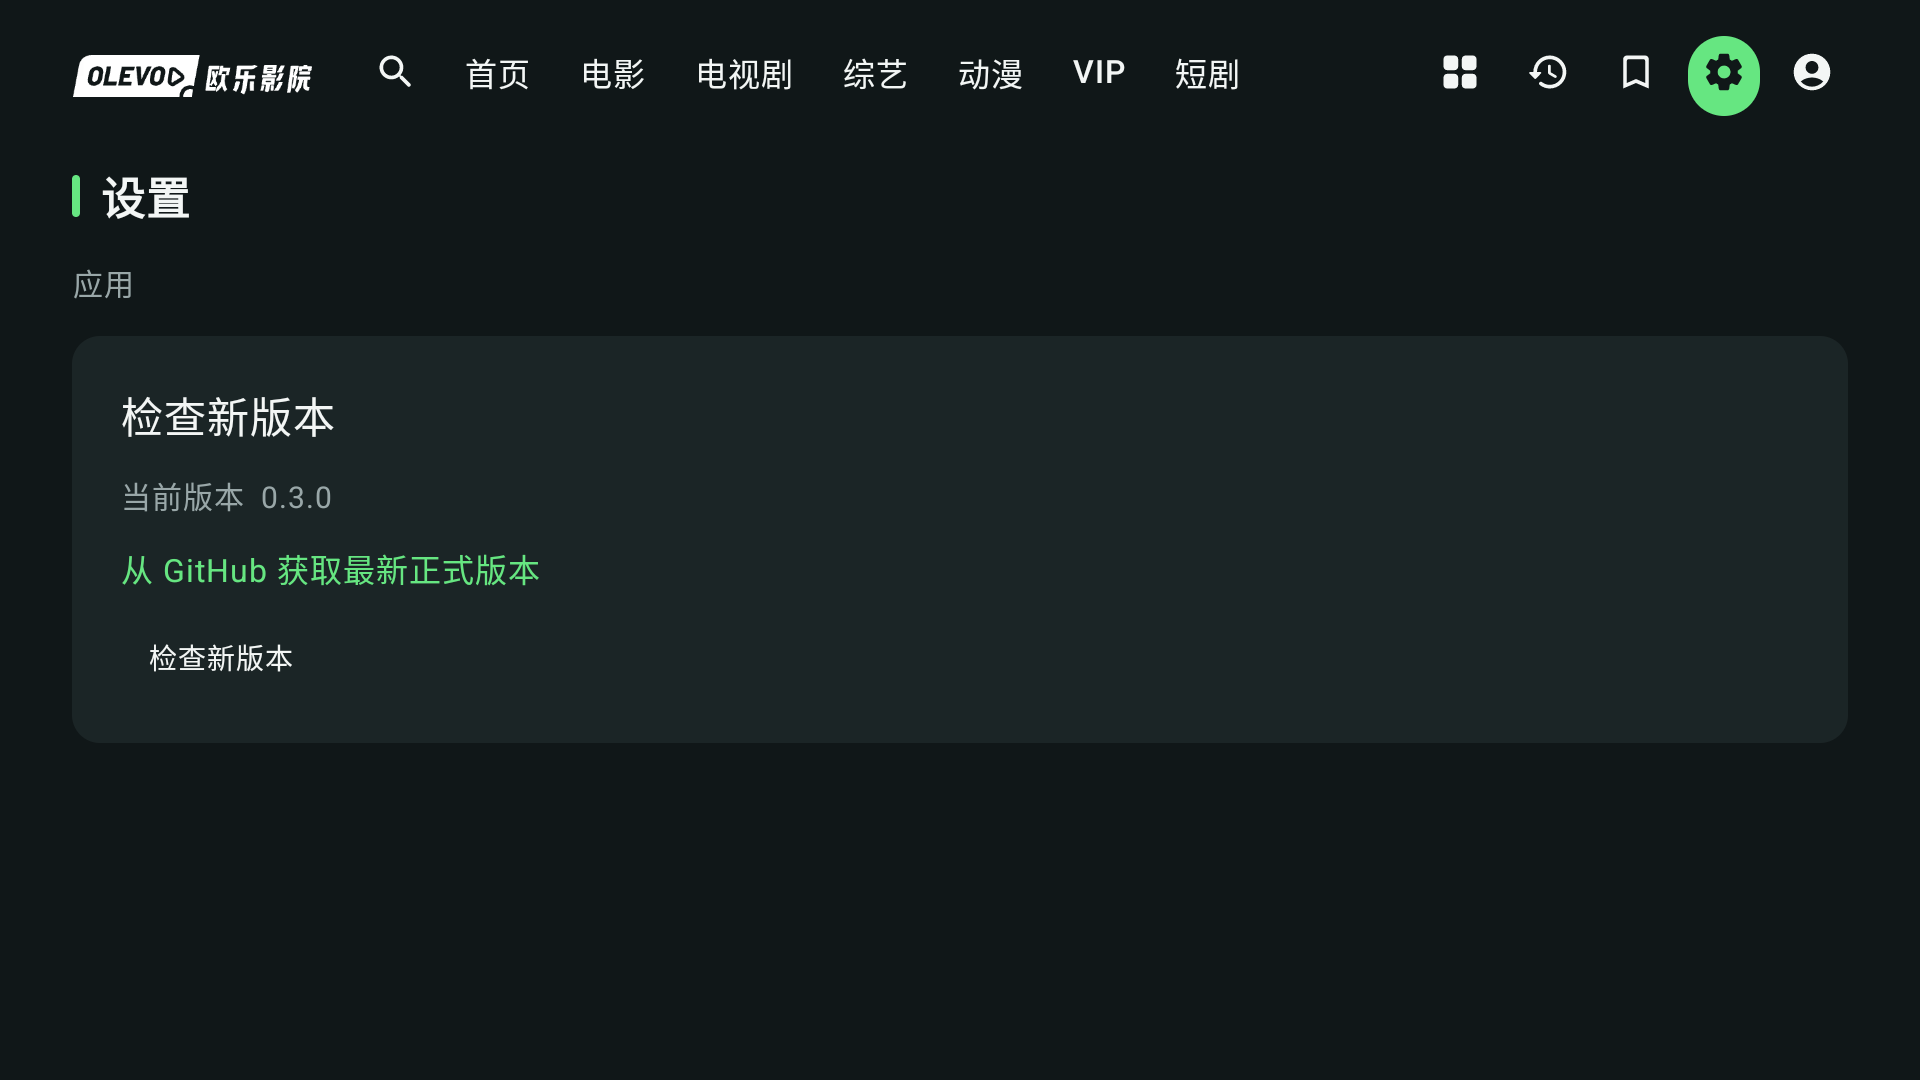
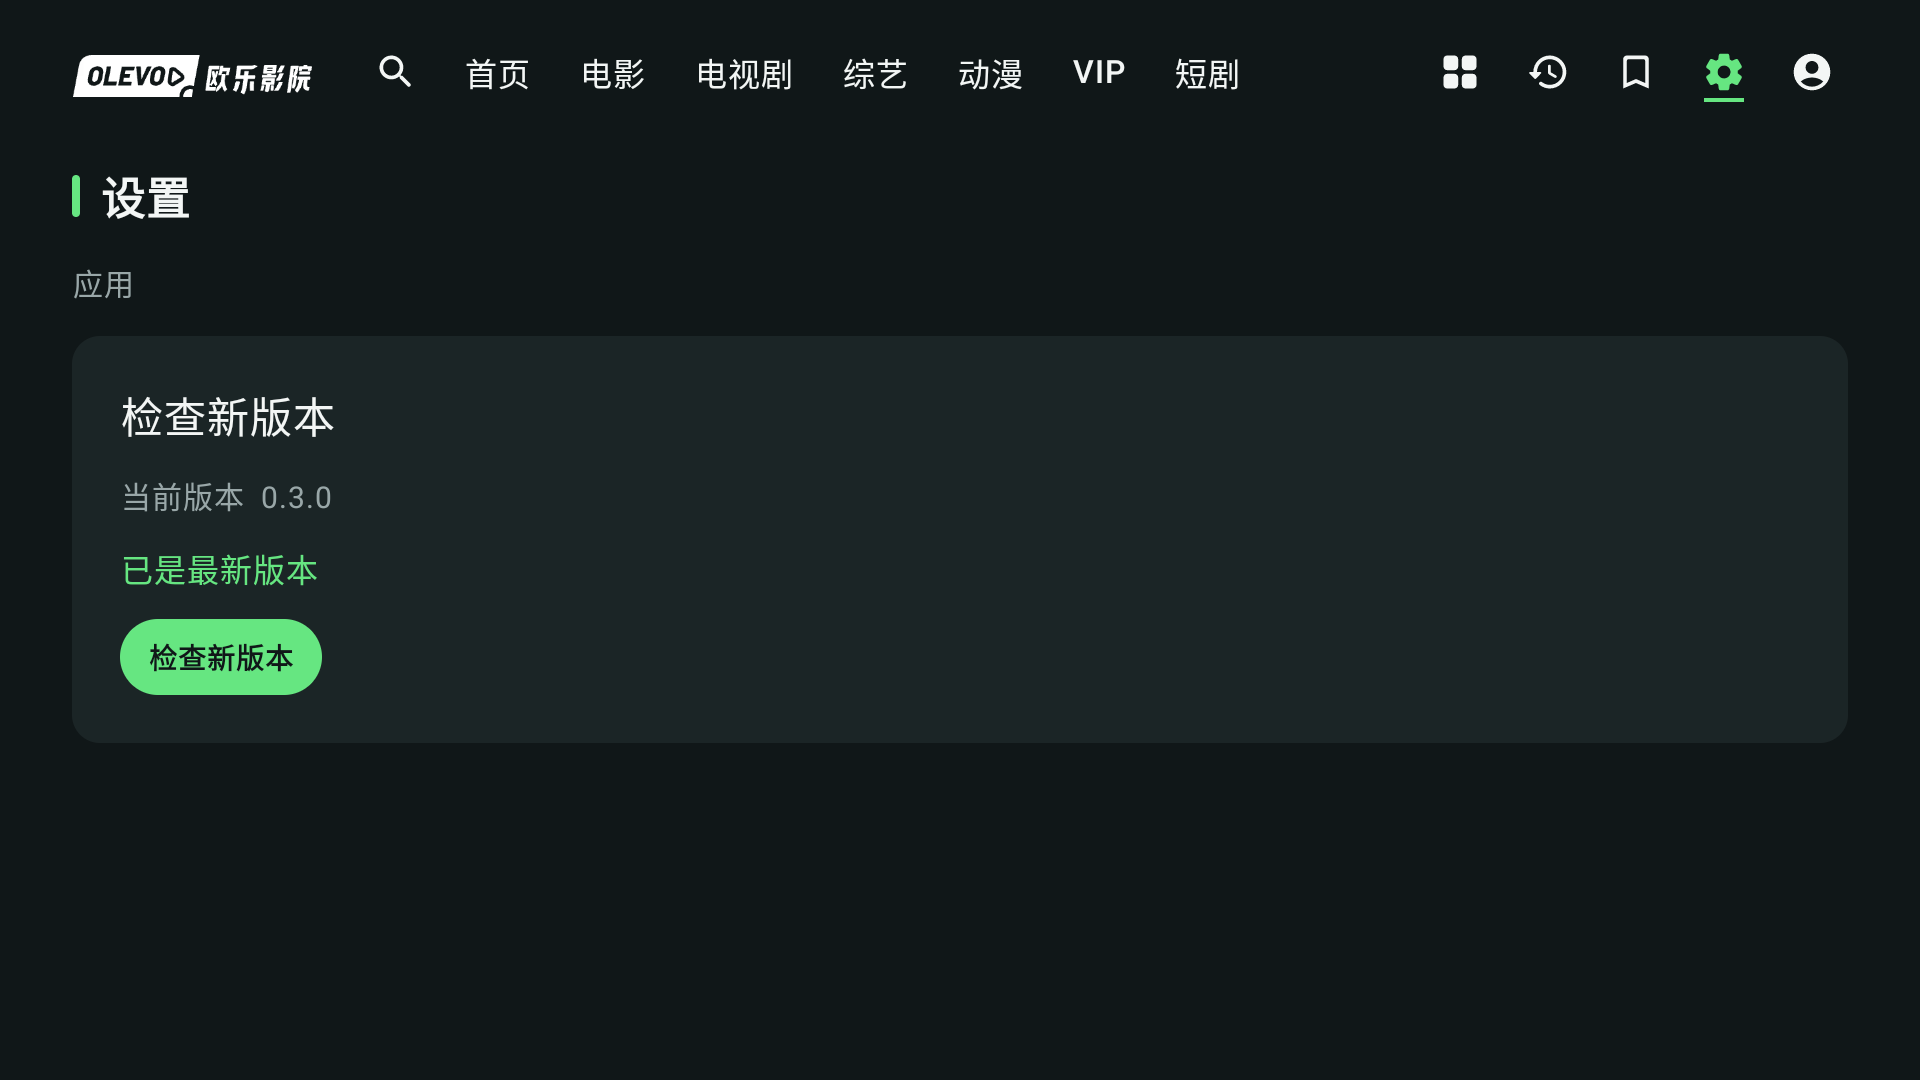
docs: update v0.3 installation instructions and verified screenshot

Changed region(s): [[0.0625, 0.4889, 0.2812, 0.6417], [0.875, 0.0306, 0.9375, 0.1222]]

diff --git a/docs/INSTALL.md b/docs/INSTALL.md
@@ -1,28 +1,30 @@
-# 安装欧乐 TV v0.2
+# 安装欧乐 TV v0.3
 
-v0.2包含新版界面、Top 2模糊海报背景与搜索重试修复。[前往下载 APK](https://github.com/abdvl/olevod-tv-app/releases/tag/v0.2)。
+v0.3包含新版界面、Top 2模糊海报背景与搜索重试修复。[前往下载 APK](https://github.com/abdvl/olevod-tv-app/releases/tag/v0.3)。
 
 ## 设备要求与下载
 
 - Android TV / Google TV，Android 8.0（API26）及以上；需要互联网连接和遥控器。
 - 已实测 Google Chromecast with Google TV（sabrina / Android14）。其他设备的解码、遥控器和系统安装界面可能不同。
 - APK 是独立安装包，不是手机应用，也不是 Play 商店版本。
-- 在 [v0.2 Release](https://github.com/abdvl/olevod-tv-app/releases/tag/v0.2) 的 Assets 下载 **olevod-tv-v0.2.apk**。不要把 GitHub 自动生成的 Source code 压缩包当成安装包。
+- 在 [v0.3 Release](https://github.com/abdvl/olevod-tv-app/releases/tag/v0.3) 的 Assets 下载 **olevod-tv-v0.3.apk**。不要把 GitHub 自动生成的 Source code 压缩包当成安装包。
 - 同页的 `SHA256SUMS.txt` 可用于检查下载是否完整。
 
-## 从 v0.1 正式版升级
+## 从 v0.1 / v0.2 正式版升级
 
-v0.2 使用与 v0.1 相同的发布证书，版本为0.2.0、versionCode2。已安装原 v0.1 正式 APK 时，直接打开新版 APK 选择更新，或使用下方 `adb install -r`；无需卸载。升级会保留本机数据，登录会话是否仍有效取决于网站。
+v0.3 使用与 v0.1 / v0.2 相同的发布证书，版本为 0.3.0、versionCode 3。已安装原正式 APK 时，直接打开新版 APK 选择更新，或使用下方 `adb install -r`；无需卸载。升级会保留本机数据，登录会话是否仍有效取决于网站。
+
+v0.1 / v0.2 尚无应用内更新入口，需要先手动安装 v0.3。从 v0.3 起可通过头像左侧齿轮 → 检查新版本下载后续正式版本，首次需要允许欧乐 TV 安装未知来源应用，最后在系统安装页确认。
 
 ## 从已有开发调试版迁移
 
-v0.2 使用专用发布证书；此前 Android Studio/ADB 安装的 debug 版使用开发证书。两者包名相同（`com.olevod.tv`），签名不同，**不能直接覆盖安装**。Android更新包需要兼容的签名身份，见 [应用签名说明](https://developer.android.com/studio/publish/app-signing)。
+v0.3 使用专用发布证书；此前 Android Studio/ADB 安装的 debug 版使用开发证书。两者包名相同（`com.olevod.tv`），签名不同，**不能直接覆盖安装**。Android更新包需要兼容的签名身份，见 [应用签名说明](https://developer.android.com/studio/publish/app-signing)。
 
 如果设备已有开发调试版：
 
 1. 先确认需要保留的观看记录已出现在网站云历史中。应用没有本机历史/保存密码的导出功能；尚未同步的本机记录不能保证迁移。
 2. 在电视的设置 → 应用 → 欧乐 TV 中卸载旧版。**这会清除本机历史、搜索记录、登录状态以及记住的账号密码。** 不会因此删除网站账号或网站已有的云历史/收藏。
-3. 按下面任一种方法安装 v0.2，再在电视上登录。
+3. 按下面任一种方法安装 v0.3，再在电视上登录。
 
 已安装同一发布签名的版本时，后续同签名、更高版本可覆盖升级；通常会保留应用数据。维护者必须保留原发布私钥并递增 versionCode。
 
@@ -51,7 +53,7 @@ adb pair TV_IP:PAIR_PORT
 # 按提示输入电视本次显示的配对码
 adb connect TV_IP:DEBUG_PORT
 adb devices
-adb -s TV_IP:DEBUG_PORT install -r olevod-tv-v0.2.apk
+adb -s TV_IP:DEBUG_PORT install -r olevod-tv-v0.3.apk
 adb -s TV_IP:DEBUG_PORT shell am start -n com.olevod.tv/.MainActivity
 ```
 
@@ -89,10 +91,10 @@ shasum -a 256 -c SHA256SUMS.txt
 Windows PowerShell 可执行下列命令，并与 `SHA256SUMS.txt` 中的值对比：
 
 ```powershell
-Get-FileHash .\olevod-tv-v0.2.apk -Algorithm SHA256
+Get-FileHash .\olevod-tv-v0.3.apk -Algorithm SHA256
 ```
 
-v0.2 发布证书 SHA-256：
+v0.3 发布证书 SHA-256：
 
 ```text
[1 lines of base64/hex data omitted]
